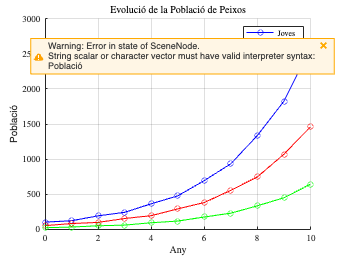
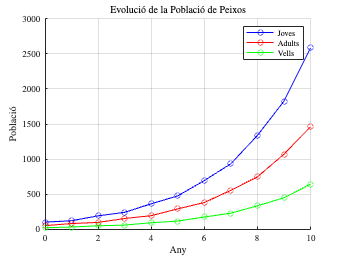
leslie detalls

Changed region(s): [[0.0875, 0.1245, 0.9913, 0.3113], [0.0292, 0.4047, 0.0583, 0.5603]]

diff --git a/docs/PeixosLeslie.md b/docs/PeixosLeslie.md
@@ -154,7 +154,7 @@ plot(0:n_years, populations(:, 2), '-o', 'DisplayName', 'Adults', 'Color', 'r');
 plot(0:n_years, populations(:, 3), '-o', 'DisplayName', 'Vells', 'Color', 'g');
 title('Evoluci\''o de la Poblaci\''o de Peixos');
 xlabel('Any');
-ylabel('Població');
+ylabel('Poblaci\''o');
 legend('show');
 grid on;
 hold off;
@@ -172,6 +172,8 @@ ylabel('Proporci\''o');
 set(gca, 'XTickLabel', {'Joves', 'Adults', 'Vells'});
 grid on;
 ```
+
+![figure_1.png](PeixosLeslie_media/figure_1.png)
 
 ## Qüestions
 1.  Millora l'script incloent a la taula la fracció entre la quantitat total d'individus en dos períodes de tempos consecutius, així com la fracció entre individus dels diferents tipus a cada generació.
